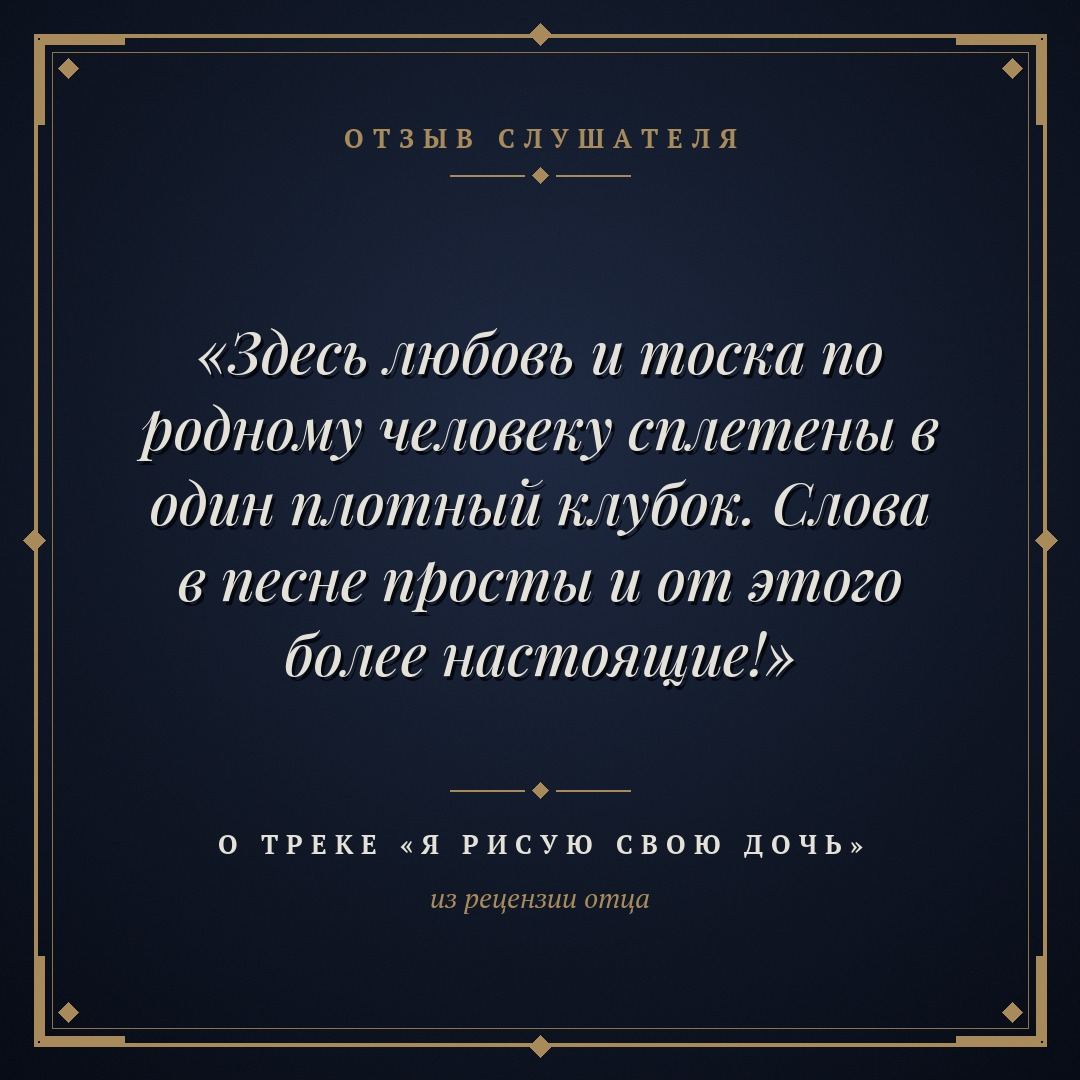
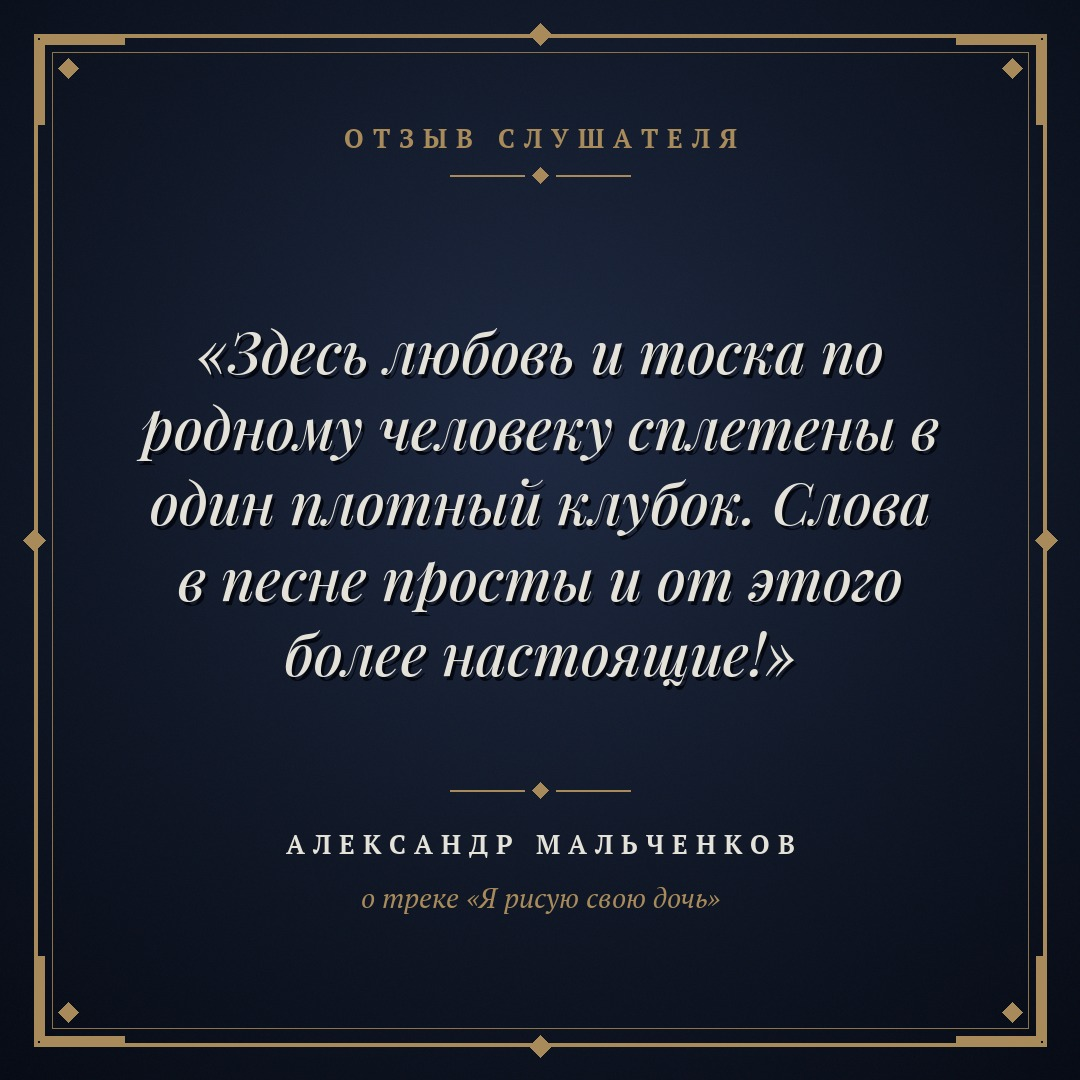
Review card: signed by Aleksandr Malchenkov

Changed region(s): [[0.2444, 0.7639, 0.7944, 0.7944], [0.3361, 0.825, 0.6722, 0.8556], [0.1833, 0.7639, 0.2139, 0.7944]]

diff --git a/gramoty-posty.html b/gramoty-posty.html
@@ -27,7 +27,7 @@ button.btn{background:transparent}
 <body>
 <div class="bar"><div class="bar__in"><span class="bar__brand">Вселенная ТИР · Эрик Хват</span><span class="bar__act"><a class="btn" href="materials.html">Все материалы</a><a class="btn" href="index.html">На сайт</a></span></div></div>
 <header class="hero"><div class="hero__tag">Подарок</div><h1>Грамоты и отзывы</h1><p>Готовые карточки и тексты постов для Telegram и VK. Публикуем только с согласия участников; места в [скобках] заполняет автор.</p><div class="orn"><i></i></div></header>
-<section><div class="wrap"><div class="note"><b>Перед публикацией.</b> Согласие на размещение грамоты дали Антон Булыгин, Виталий Краснов, Константин Голованенко, Юрген Паустьян, Луиза Аминова и Ирина (по её просьбе без фамилии: фамилию на грамоте нужно закрасить). Отзыв отца о треке: согласие на публикацию у автора отзыва было с самого начала, публикуем без имени. Личное сообщение Луизы (про четыре книги) я оформила отдельной карточкой, но не выкладываю на сайт, пока она не подтвердит, что его можно публиковать.</div>
+<section><div class="wrap"><div class="note"><b>Перед публикацией.</b> Согласие на размещение грамоты дали Антон Булыгин, Виталий Краснов, Константин Голованенко, Юрген Паустьян, Луиза Аминова и Ирина (по её просьбе без фамилии: фамилию на грамоте нужно закрасить). Отзыв Александра Мальченкова о треке: согласие на публикацию с именем есть. Личное сообщение Луизы (про четыре книги) я оформила отдельной карточкой, но не выкладываю на сайт, пока она не подтвердит, что его можно публиковать.</div>
 <div class="posts" style="margin-top:20px"><article class="post"><img src="img/gramoty/gramota-poeziya-1.jpg" alt="Грамота по поэзии: Антон Булыгин" loading="lazy"><div class="post__b"><h4>Грамота по поэзии: Антон Булыгин</h4><div class="post__t" id="g1">Сегодня хочу показать грамоту Антон Булыгин, участника тренинга «Шаг в поэзию».
 
 [Две-три фразы: что особенно удалось в его стихах, какое стихотворение запомнилось, как он изменился за время обучения.]
@@ -72,15 +72,15 @@ button.btn{background:transparent}
 Если Вы давно хотите написать свой первый рассказ, начните с гайда «Создавайте свои рассказы»: http://irektuhvatshin.ru/gayd-proza.html
 
 Поздравляю, Луиза!</div><div class="post__a"><button class="btn btn--ink btn--sm" data-copy="g6">Копировать текст</button><a class="btn btn--ink btn--sm" href="img/gramoty/gramota-proza-1.jpg" download>Скачать картинку</a></div></div></article>
-<article class="post"><img src="img/gramoty/otzyv-trek.jpg" alt="Отзыв о треке «Я рисую свою дочь»" loading="lazy"><div class="post__b"><h4>Отзыв о треке «Я рисую свою дочь»</h4><div class="post__t" id="g7">Отзыв о треке «Я рисую свою дочь».
+<article class="post"><img src="img/gramoty/otzyv-trek.jpg" alt="Отзыв Александра Мальченкова о треке «Я рисую свою дочь»" loading="lazy"><div class="post__b"><h4>Отзыв Александра Мальченкова о треке «Я рисую свою дочь»</h4><div class="post__t" id="g7">Отзыв о треке «Я рисую свою дочь».
 
-Слушатель написал мне рецензию, и я хочу поделиться её частью:
+Александр Мальченков написал мне рецензию, и я хочу поделиться её частью:
 
 «Выбранный поп жанр звучит здесь очень даже к месту и делает слова лёгкими и доступными. Очень тонко чувствуется передача настроения. Здесь любовь и тоска по родному человеку сплетены в один плотный клубок. Слова в песне просты и от этого более настоящие! В целом трек звучит уверенно, всё на своих местах, чувствуется внутренняя сила, которая не кричит, а чувствуется».
 
 [Ссылка на трек]
 
-Благодарю за добрые слова. Песня создана на заказ: если у Вас есть задумка для своей, расскажите о ней: https://t.me/erikhvat_stihi_bot</div><div class="post__a"><button class="btn btn--ink btn--sm" data-copy="g7">Копировать текст</button><a class="btn btn--ink btn--sm" href="img/gramoty/otzyv-trek.jpg" download>Скачать картинку</a></div></div></article>
+Благодарю Александра за добрые слова. Песня создана на заказ: если у Вас есть задумка для своей, расскажите о ней: https://t.me/erikhvat_stihi_bot</div><div class="post__a"><button class="btn btn--ink btn--sm" data-copy="g7">Копировать текст</button><a class="btn btn--ink btn--sm" href="img/gramoty/otzyv-trek.jpg" download>Скачать картинку</a></div></div></article>
 </div></div></section>
 <footer class="foot"><p>Эрик Хват · <a href="https://irektuhvatshin.ru">irektuhvatshin.ru</a> · <a href="https://t.me/erikhvat">t.me/erikhvat</a> · <a href="mailto:erikhvat@mail.ru">erikhvat@mail.ru</a></p></footer>
 <script>
